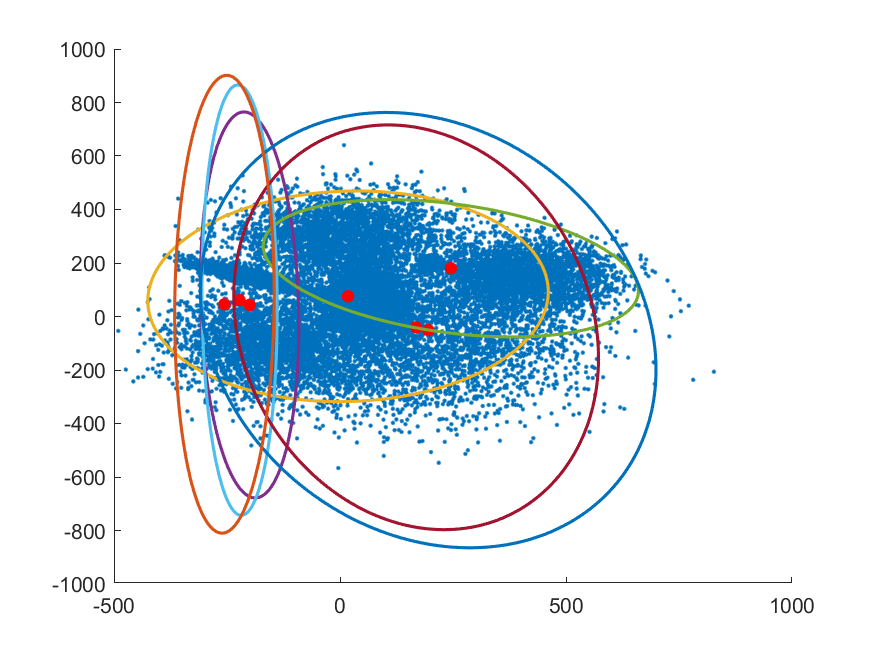
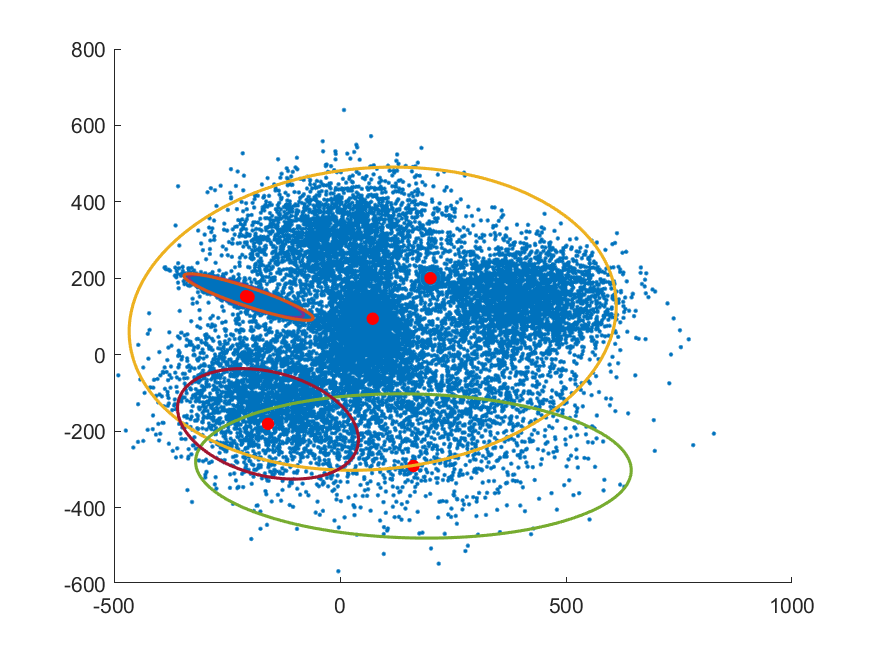
fixed bugs

diff --git a/hw4-em-algorithm/em_alogithm.m b/hw4-em-algorithm/em_alogithm.m
@@ -14,24 +14,31 @@ z_im = ones(N, nClusters);
 for iter = 1 : nIter
     fprintf('Iteration %d of %d\n', iter, nIter);
     % E step
-    p_xi_zim =  zeros(1, nClusters);
+    
     for i = 1 : N
+        p_xi_zim =  zeros(1, nClusters);
         for m = 1 : nClusters
             tmp = data(i, :) - mu_m(m, :);
             p_xi_zim(m) = (exp(-0.5 * tmp / ...
-                (sigma_m(:, :, m)) * tmp')) / ...
-                ((2 * pi) ^ (d / 2) * sqrt(det(sigma_m(:, :, m))));
-            z_im(i,m) = (p_xi_zim(m) * pi_m(m)) / (sum(p_xi_zim .* pi_m));
-        end 
+                (sigma_m(:, :, m)) * tmp.')) / ...
+                (((2 * pi) ^ (d / 2)) * sqrt(det(sigma_m(:, :, m))));
+            z_im(i, m) = (p_xi_zim(m) * pi_m(m)) / (sum(p_xi_zim .* pi_m));
+        end
+%          z_im(i, :) = z_im(i, :) / (sum(p_xi_zim .* pi_m));
     end
 
     % M step
     for m = 1 : nClusters
-        tmp = data - mu_m(m);
-        sigma_m(:, :, m) = z_im(:, m)' .* tmp' * tmp / sum(z_im(:, m));
-        mu_m(m, :) = (z_im(:, m)' * data) / sum(z_im(:, m));
+        tmp = data - mu_m(m, :);
+        sigma_m(:, :, m) = z_im(:, m).' .* tmp.' * tmp / sum(z_im(:, m));
+        mu_m(m, :) = (z_im(:, m).' * data) / sum(z_im(:, m));
         pi_m(m) = sum(z_im(:, m)) / N;
     end
+    scatter(data(:, 1), data(:, 2), '.');
+    hold on;
+    scatter(mu_m(:, 1), mu_m(:, 2), 'red', 'filled');
+    hold off;
+    pause(1e-5);
 end
 
 figure;
@@ -45,5 +52,4 @@ end
 hold off;
 
 saveas(gcf, 'em_with_error_ellipse.png');
-
 

diff --git a/hw4-em-algorithm/error_ellipse.m b/hw4-em-algorithm/error_ellipse.m
@@ -8,12 +8,12 @@ function error_ellipse(cov_mat, mu)
 % chi squared quantile
 k = 2.4477; % skipped the calculation here. For details see the url
 
-n=100; % Number of points around ellipse
-p=0:pi/n:2*pi; % angles around a circle
+n = 100; % Number of points around ellipse
+p = 0 : pi / n : 2 * pi; % angles around a circle
 [eigVec, eigVal] = eig(cov_mat);    % compute eigen vector and eigen values
-xy = [cos(p'),sin(p')] * sqrt(eigVal) * eigVec'; % Transformation
-x = xy(:,1);
-y = xy(:,2);
+xy = [cos(p'), sin(p')] * sqrt(eigVal) * eigVec'; % Transformation
+x = xy(:, 1);
+y = xy(:, 2);
 plot((mu(1) + k * x), (mu(2) + k * y), LineWidth = 1.5);
 end
 
